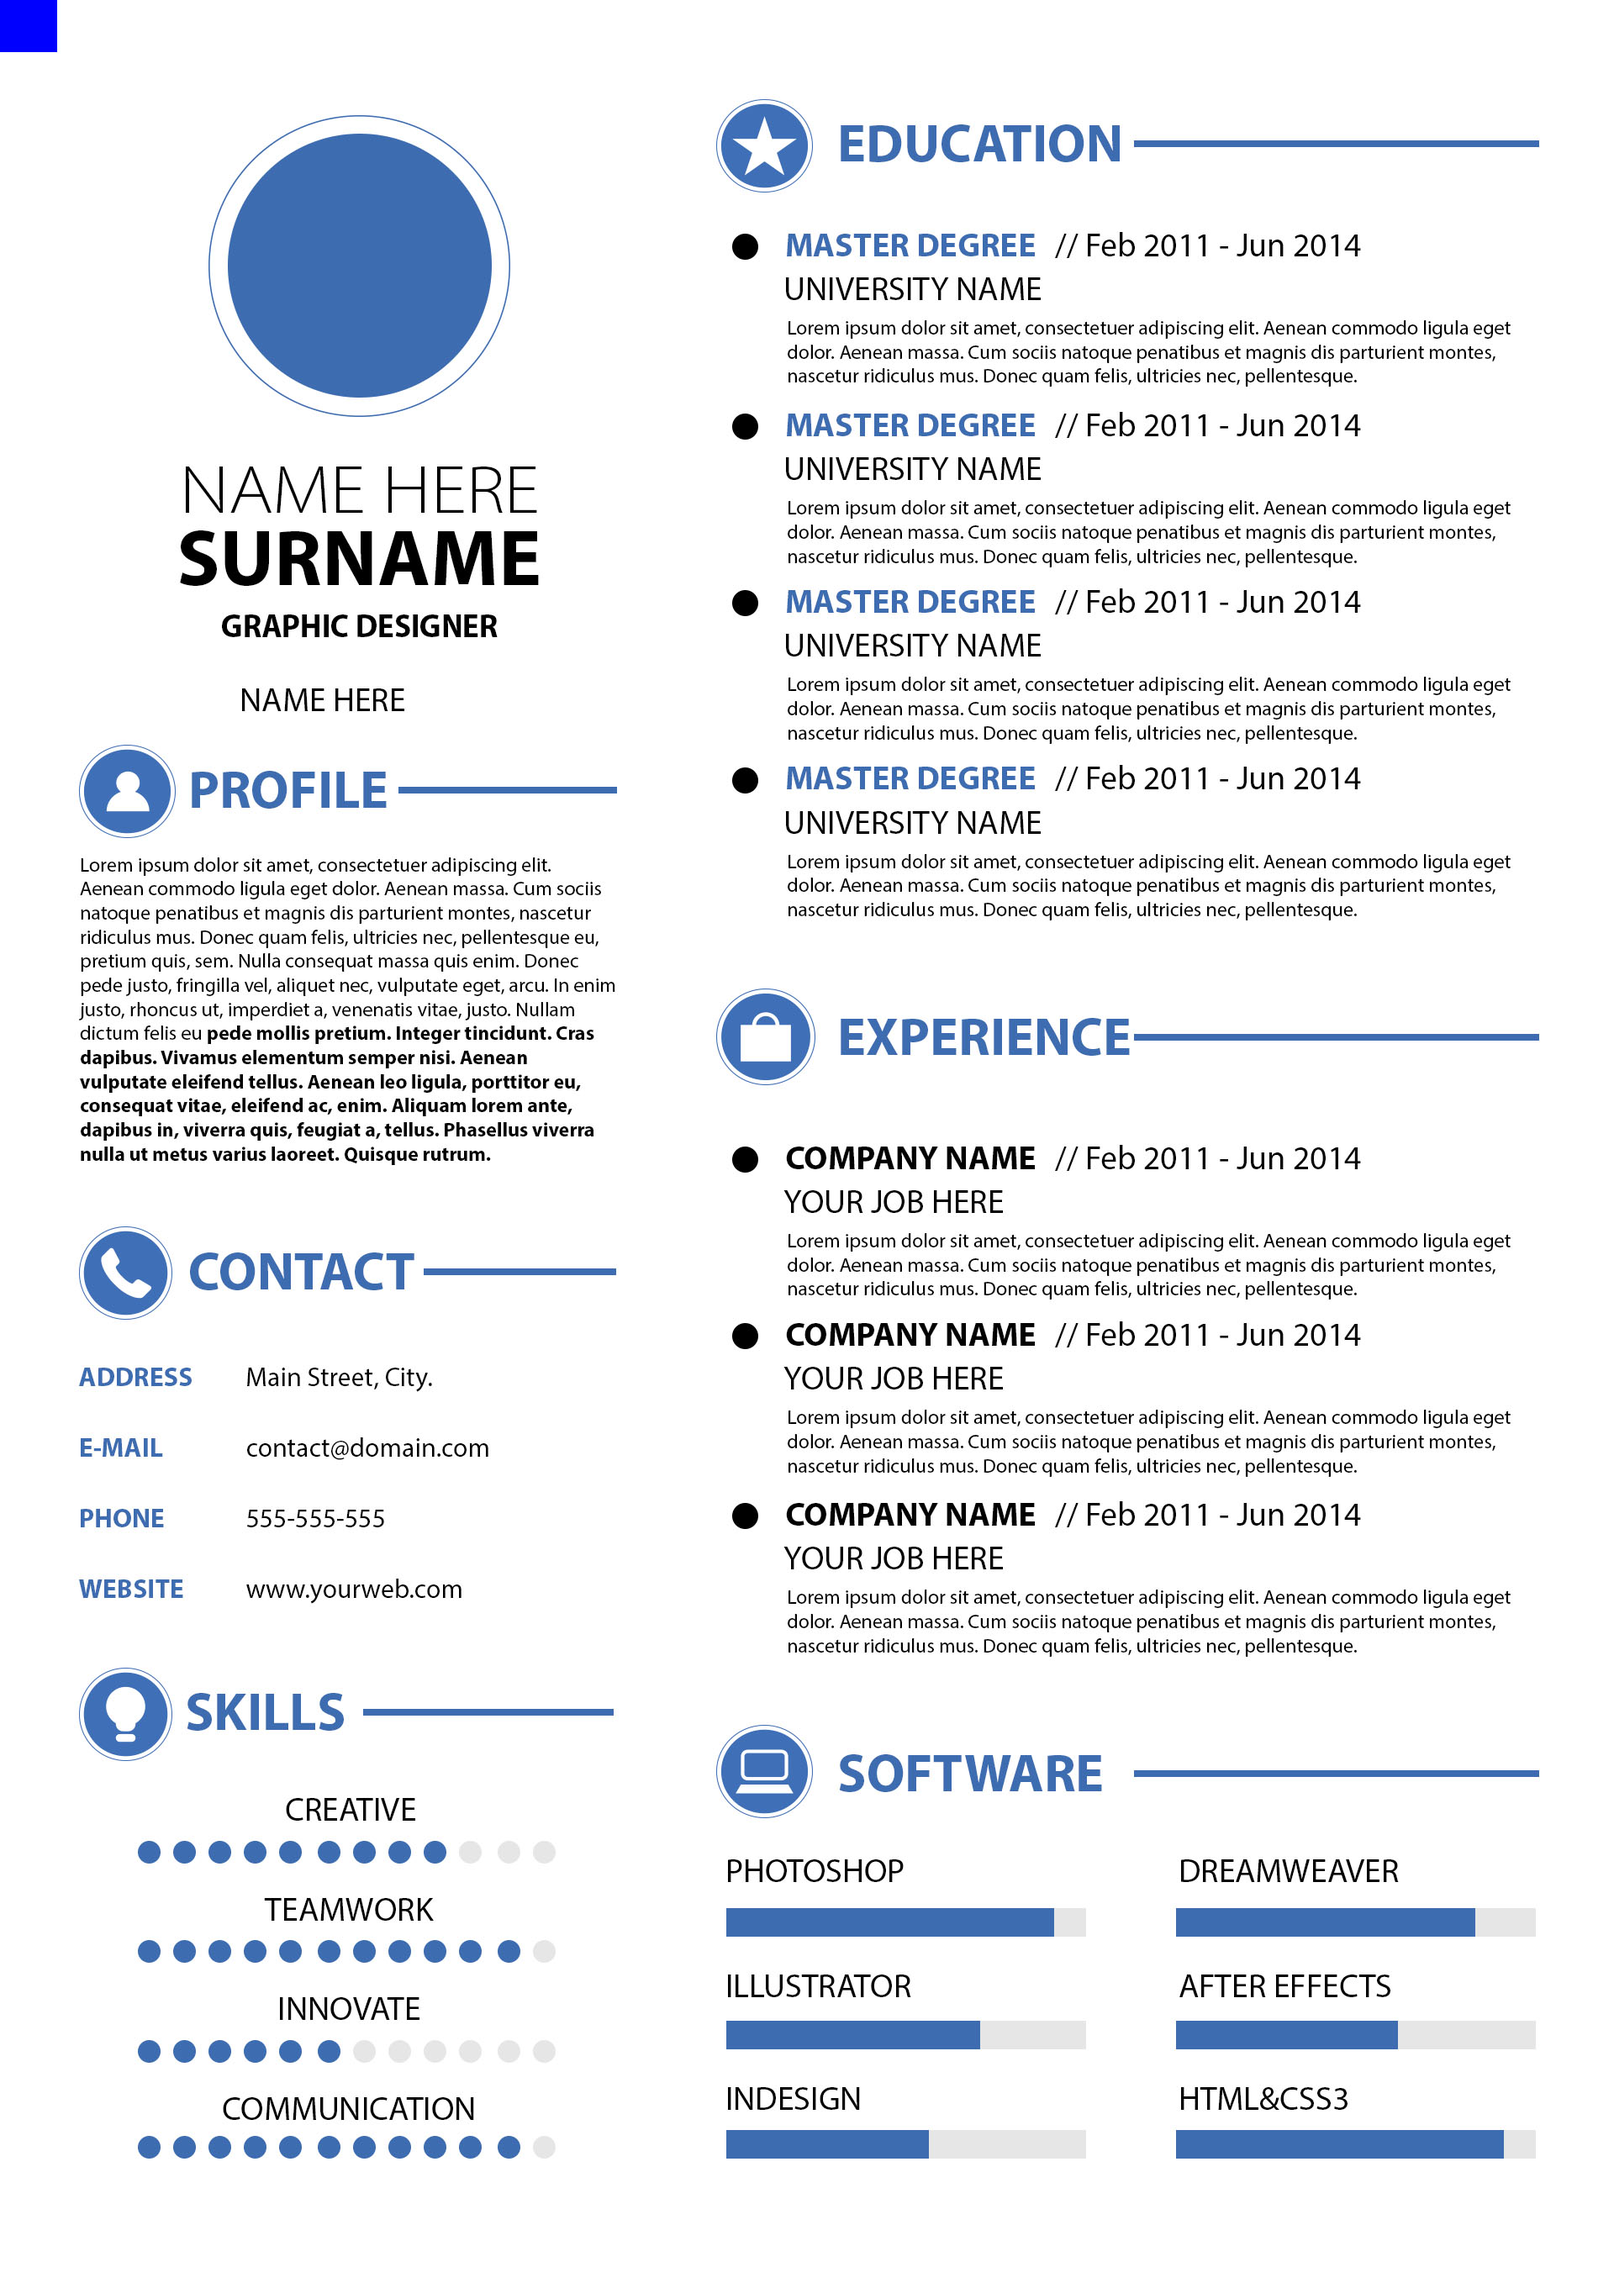
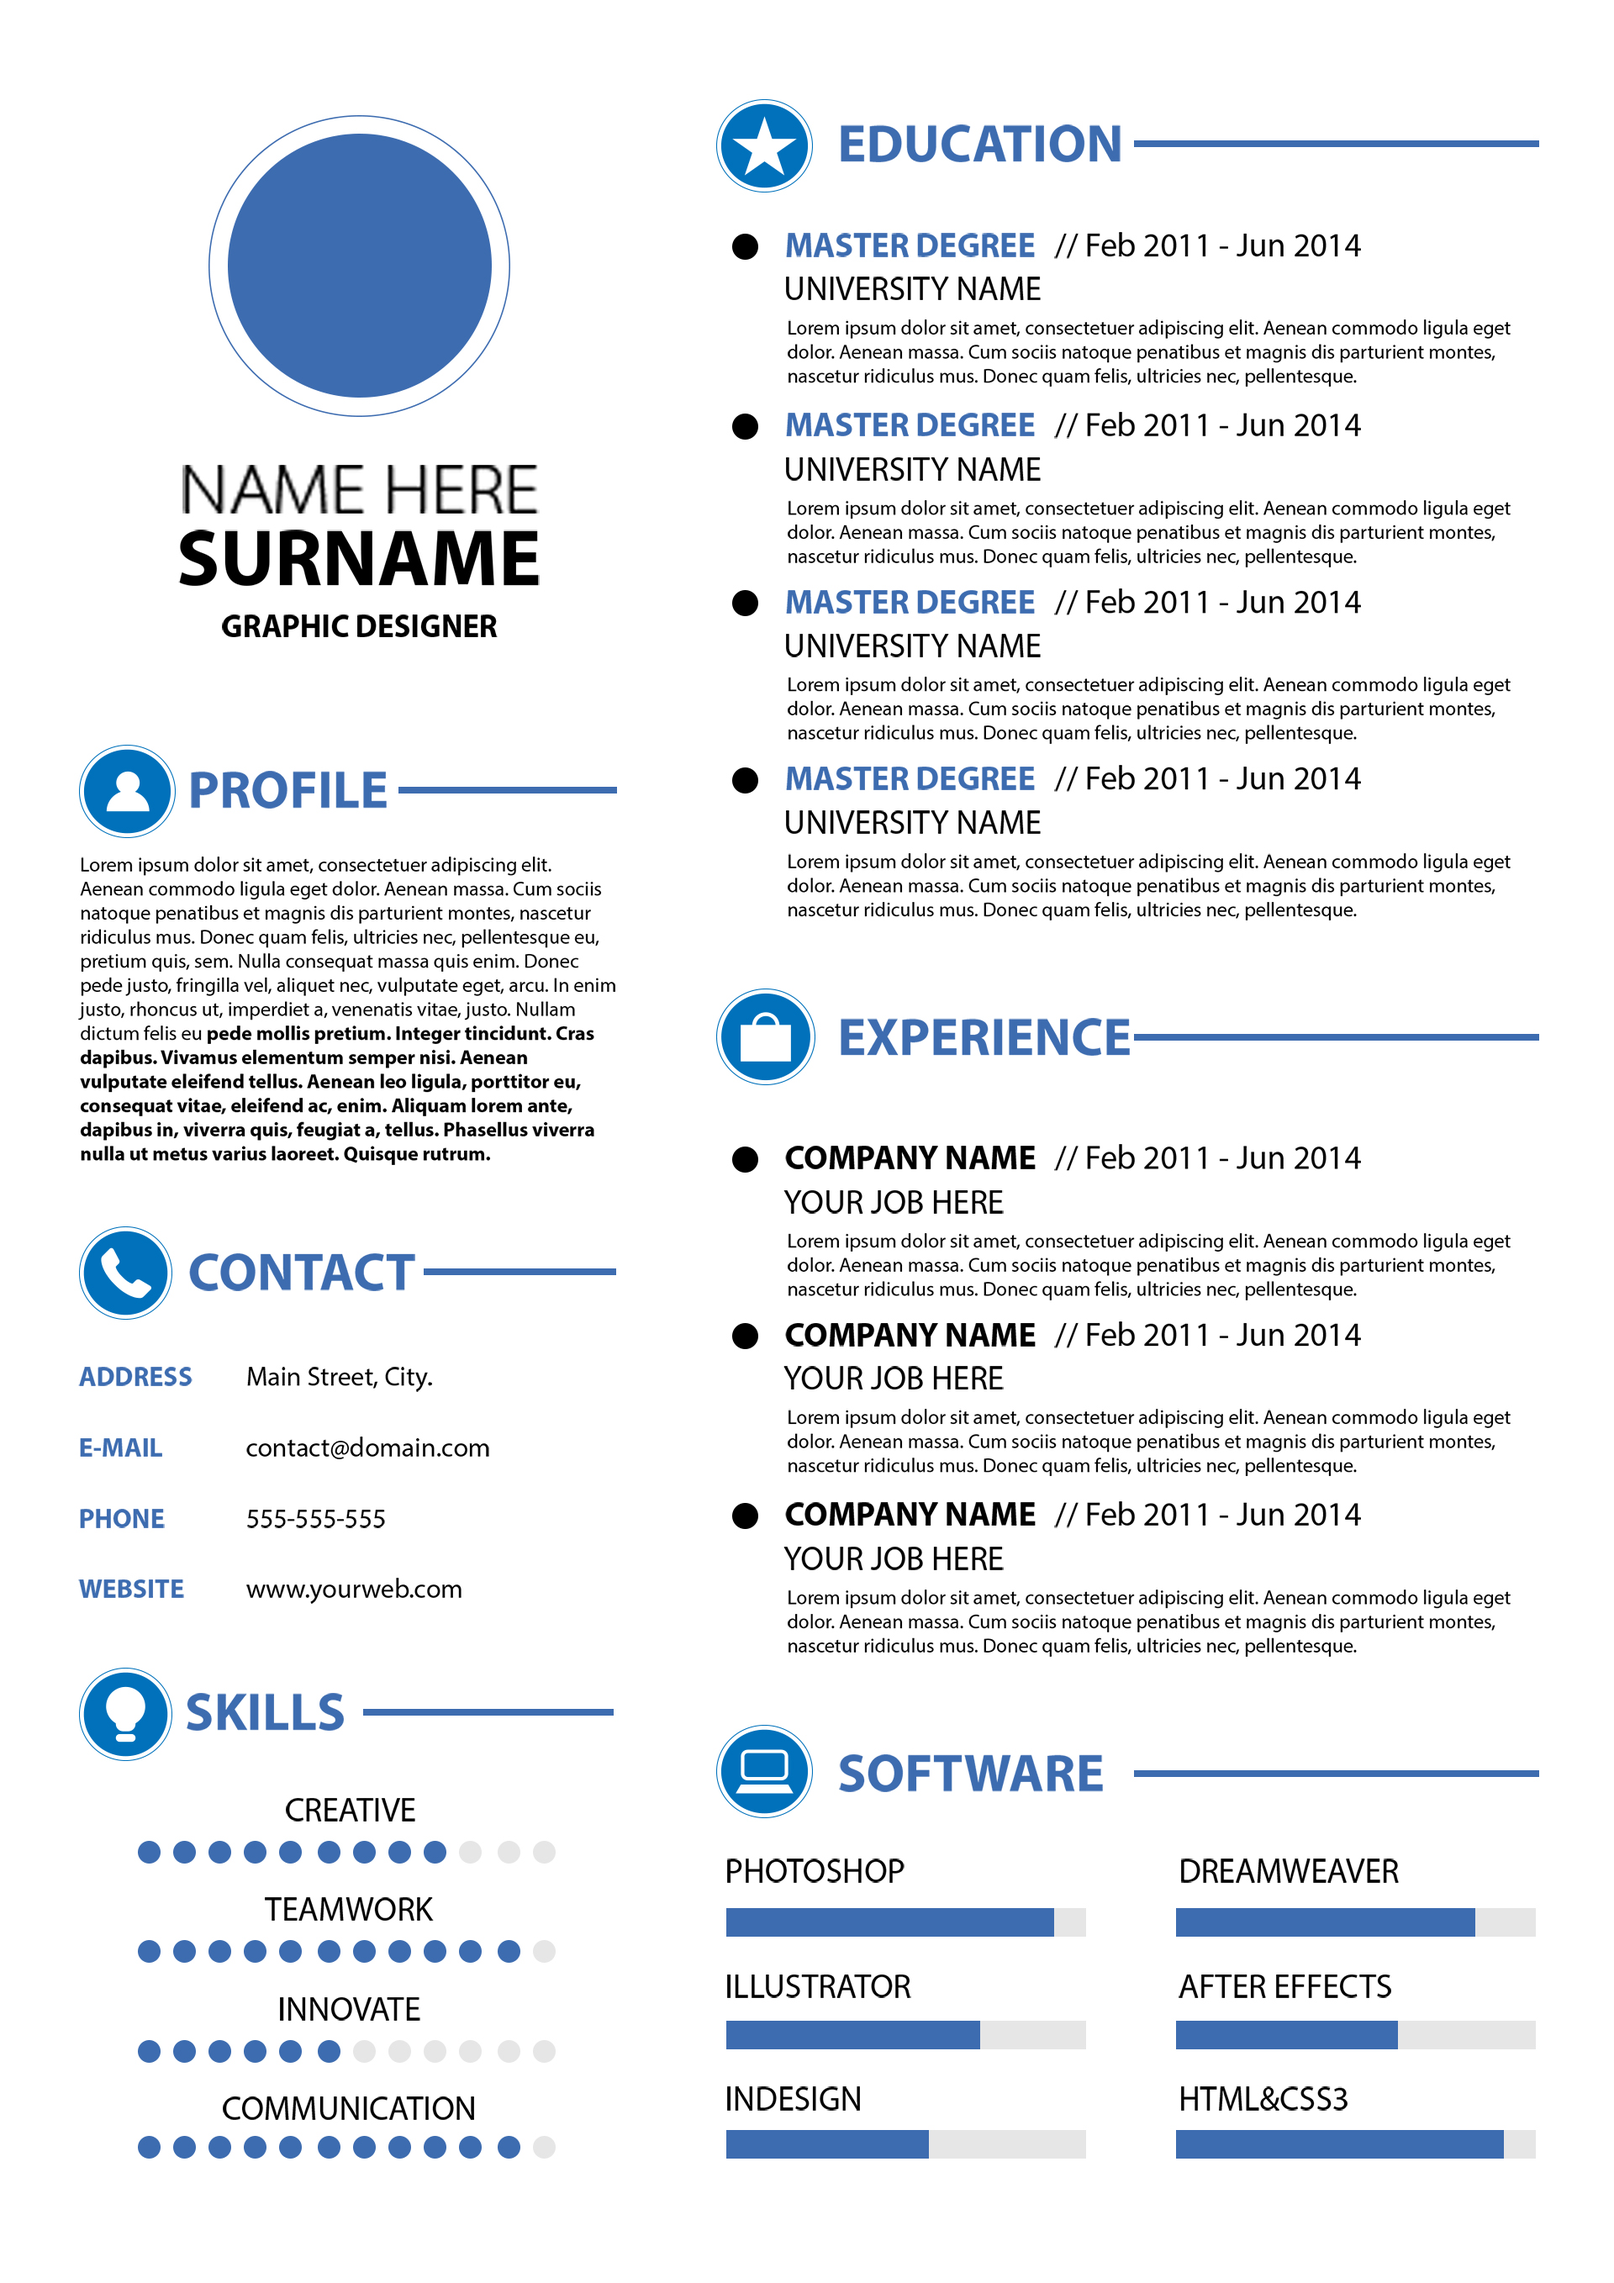
Удален лишний заголовок. Заменены файлы макета #16

diff --git a/src/blocks/main/main.scss b/src/blocks/main/main.scss
@@ -25,15 +25,15 @@
   }
 
   &__profile {
-    margin-top: 1.13rem;
+    margin-top: 4.75rem;
   }
 
   &__contacts {
-    margin-top: 3rem;
+    margin-top: 3.3rem;
   }
   
   &__skills {
-    margin-top: 1.083rem;
+    margin-top: 1rem;
   }
 
   &__right-column {

diff --git a/src/blocks/head/head.scss b/src/blocks/head/head.scss
@@ -44,14 +44,4 @@
     text-align: center;
     text-transform: uppercase;
   }
-
-  &__add-name {
-    margin: 0;
-    margin-top: 1.79rem;
-
-    font-size: 1.625rem;
-    line-height: 1.2;
-    text-align: center;
-    text-transform: uppercase;
-  }
 }
